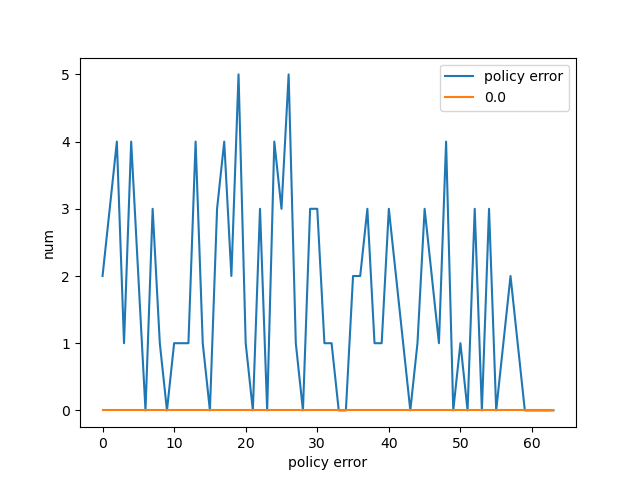
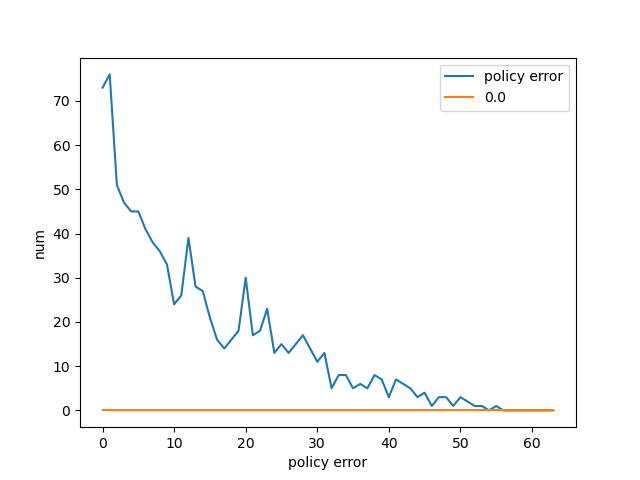
update learning

diff --git a/learn.py b/learn.py
@@ -246,8 +246,8 @@ def policy_error(y_true, y_pred):
         if y_pred_policy[i][1] == first_policy:
             return i
 
-n_epochs = 10
-game_num = 100
+n_epochs = 200
+game_num = 2000
 game_strt = 0
 n_kernels = 64
 kernel_size = 4
@@ -312,6 +312,7 @@ with open('param/std.txt', 'w') as f:
     for i in std:
         f.write(str(i) + '\n')
 model.save('param/teacher.h5')
+model.save('param/teacher_bak.h5')
 
 for key in ['policy_loss', 'val_policy_loss']:
     plt.plot(history.history[key], label=key)
